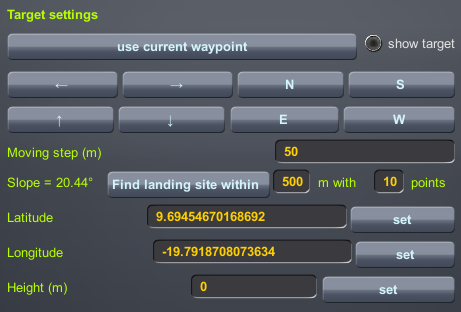
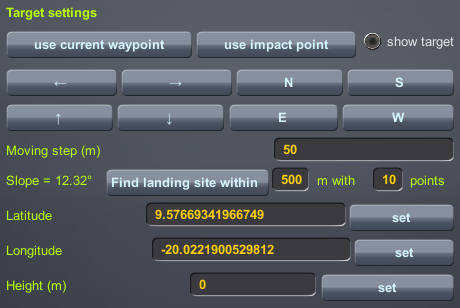
update tutorial and add autodetection or target

diff --git a/Changelog.md b/Changelog.md
@@ -110,3 +110,10 @@ Major version update
 ## 2026/05/07 v0.9.6
 
 - Improve Isp calculation for hybrid engine configuration
+
+## 2026/05/08 v0.9.7
+
+- PEGLand
+  - Autodetection for hovering ability and whether to add approch phase
+  - Improve final phase, using trinomial approximation for thrust integrals
+  - Add "use impact point as target" function, ease suborbital landing

diff --git a/更新日志.md b/更新日志.md
@@ -108,3 +108,10 @@
 ## 2026/05/07 v0.9.6
 
 - 更新引擎参数检测，优化混合引擎比冲计算
+
+## 2026/05/08 v0.9.7
+
+- PEGLand:
+  - 自动判断是否加入接近段
+  - 优化着陆段，使用三阶多项式近似推力积分
+  - 增加“使用撞击点作为目标”功能，以方便亚轨道着陆

diff --git a/docs/English/PEGLand.md b/docs/English/PEGLand.md
@@ -68,7 +68,9 @@ In most cases, you can complete guidance setup with one click in the PEGLand GUI
 
 ### Adjusting the Landing Point
 
-You can click `current waypoint` or manually enter the landing point latitude and longitude, **and click `update target`** to set the landing point. During landing, if you find the original landing point unsuitable, PEGLand also provides a very convenient visual adjustment function. Click `show target` to display the landing position on the HUD, then click the adjustment buttons to move the landing point forward, backward, left, right, or in cardinal directions. The distance moved with each click can be set in `Moving step`.
+On wakeup, PEGLand automatically read activated waypoint as landing target. If there is no activated waypoint, then it will try to find the impact point. If that fails again, then you need to set it manually.
+
+You can click `use current waypoint`, or `use impact point` or manually enter the landing point latitude and longitude, **and click `update target`** to set the landing point. During landing, if you find the original landing point unsuitable, PEGLand also provides a very convenient visual adjustment function. Click `show target` to display the landing position on the HUD, then click the adjustment buttons to move the landing point forward, backward, left, right, or in cardinal directions. The distance moved with each click can be set in `Moving step`.
 
 The `Find landing site within` button is a more automated method that will randomly sample points within a certain range around the original target and find the flattest landing site. It will also tell you the slope of the new landing site.
 
@@ -76,6 +78,7 @@ The `Find landing site within` button is a more automated method that will rando
 
 **Note:**
 
+- If you are in impacting orbit, using impact point as target might be a good choice. Or you can just start from final phase to perform an untargeted suicide burn landing
 - Only descent and approach phases allow landing point adjustments
 - Excessive landing point adjustments may cause guidance divergence
 - Try to adjust when still far from the landing point